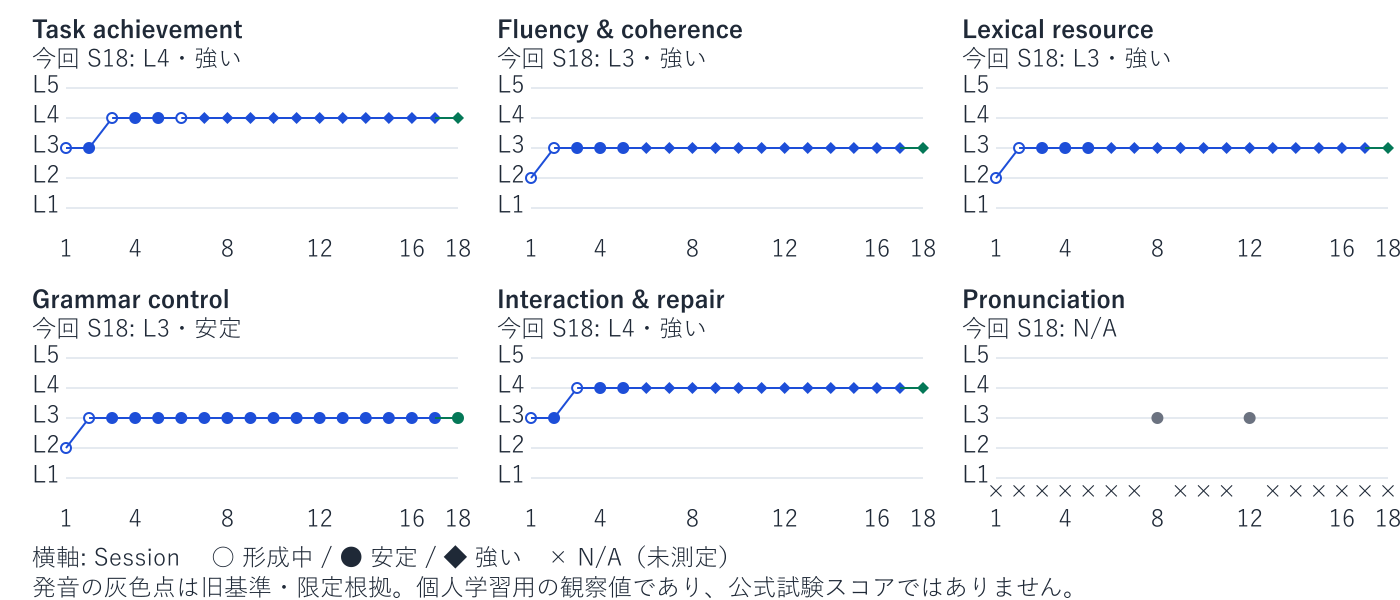
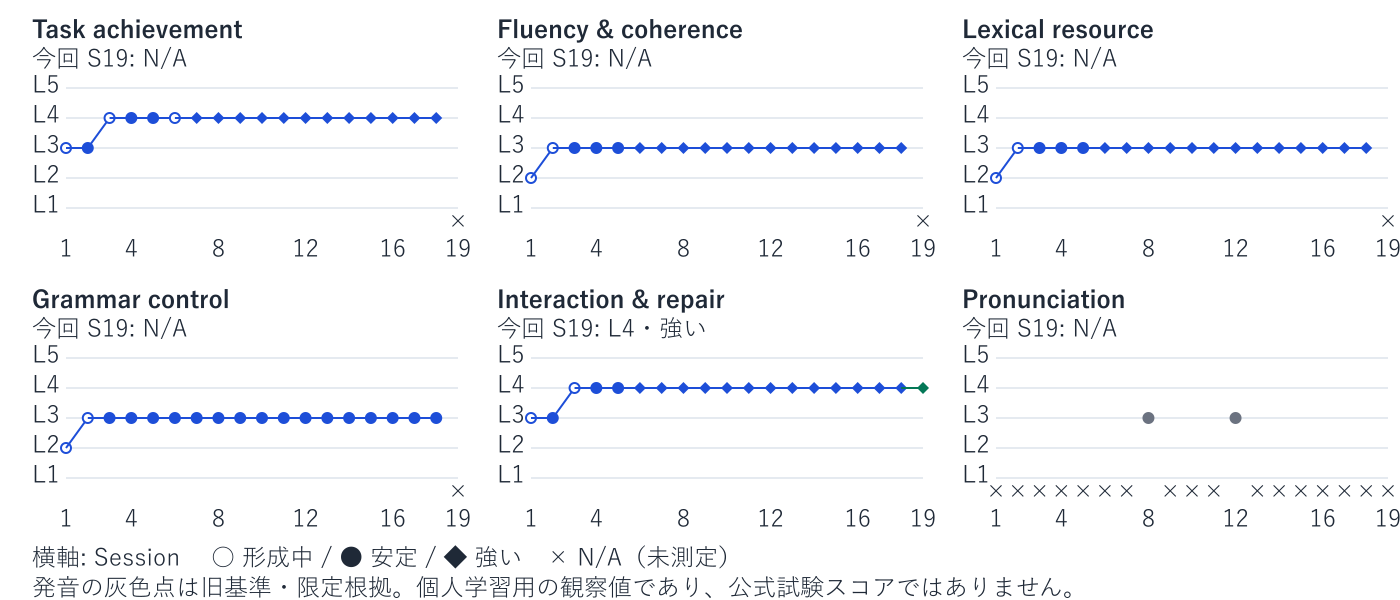
Record session 19 and adopt evidence-first report assessment

diff --git a/learning-records/journal.md b/learning-records/journal.md
@@ -8,6 +8,7 @@
 
 - [今日の5分復習](#journal-five-minute-review)
 - [英会話セッション](#journal-sessions)
+  - [Session 19 — 点数より根拠、レポート全体の評価方法を見直す](#session-2026-10-05-02)
   - [Session 18 — 宇宙記事からパスキーへ、発音評価の根拠を問い直す](#session-2026-10-05-01)
   - [Session 17 — 週末の過ごし方とAI天気予報の産業への影響](#session-2026-09-27-01)
   - [Session 16 — GCP Pub/SubとAWSの比較・英語力評価の見直し](#session-2026-09-26-01)
@@ -34,6 +35,24 @@
 <a id="journal-five-minute-review"></a>
 
 # 今日の5分復習
+
+<details>
+<summary>レポートがどう変わるか、具体的に尋ねる</summary>
+
+**How will the report change?**
+
+実際の質問意図から整理した学習用表現。ASR断片を確定した文法誤りとして採点したものではない。
+
+</details>
+
+<details>
+<summary>発音だけでなく、評価全体へ変更の範囲を広げる</summary>
+
+**I mean the whole evaluation, not only pronunciation.**
+
+今回自分で伝えた “Not only pronunciation” を、一文で使いやすくした練習案。
+
+</details>
 
 <details>
 <summary>新しい分野に入る前に、自分の理解度を確認してもらう</summary>
@@ -112,6 +131,90 @@
 <a id="journal-sessions"></a>
 
 # 英会話セッション / Sessions
+
+<!-- session-meta: {"session_number":19,"session_id":"2026-10-05-02","date":"2026-10-05","title":"点数より根拠、レポート全体の評価方法を見直す","tags":["Learning Strategy","Assessment","Report","Pronunciation"],"remember":"会話の観察・ローカル実測・過去値を分け、根拠が足りない技能には無理に点数を付けない。","prompt":"What should an evaluation report show besides a score?"} -->
+<a id="session-2026-10-05-02"></a>
+
+## 2026年10月5日（月）— 点数より根拠、レポート全体の評価方法を見直す
+
+> **Session 19 / Recorded session window:** 22:05〜22:15 JST。終了済みの追加音声会話から37の原発話区間（Yuki 13区間）を原順で保存。音声本体、入力テキスト、backendの説明は含まないためraw coverageはpartial。
+
+### 今日の要点 / Today at a Glance
+
+**今回確認できた成功:** Yukiは “Not only pronunciation” と自分から範囲を明示し、発音だけでなくレポート全体の評価方法を見直す方向へ対話を戻した。その後も、レポートが具体的にどう変わるかを質問した。
+
+**評価の制約:** 今回は短い方法相談が中心で、理由と例をつなげた長い独立説明や、比較可能な音声測定はない。会話運営のL4・強いは今回の行動から確認できるが、他の4会話観点の新規L判定は保留する。N/Aは能力低下や0点を意味しない。
+
+**次の重点:** 期待する変更を一文で示すこと、身近なITの話でまず結論と理由を述べることに絞る。
+
+### 話題別メモ / Topic Notes
+
+#### 発音の新規総合判定は一時停止する
+
+前のSession 18では録音をローカルで処理できたが、母音・子音、強勢、リズム、つながり、イントネーションを信頼して総合聴取する手段は確認できなかった。今回、Yukiは「解決策がなければN/Aが続く」と指摘し、新規総合Pronunciationレベルの判定を一時停止する方針に合意した。過去の数値や録音は削除せず、信頼できるレビュー手段を既存録音で確認して再開を相談する。方法が整わないまま追加録音を求めない。
+
+#### レポート全体を「実際に確認できる根拠」へ合わせる
+
+会話・文字起こしからの観察、ローカル音声の実測、過去の評価を別々に扱う。各技能は、実際の発話または具体的な行動、何を示すか、根拠の限界を確認してから、十分な場合だけレベルと段階を決める。ASR一致率は発音正確率ではなく、話速も英語力全体のスコアではない。専門外の記事と身近な会話を単純比較せず、Chappyの誤解や操作上の混乱をYukiの減点理由にしない。
+
+### Yukiの意見・結論 / Yuki’s Takeaways
+
+1. 解決していない分析の限界を、追加録音だけで解決したことにしない。
+2. 発音だけでなく、レポート全体をChappyが実際に確認できる範囲へ合わせる。
+3. 点数だけでなく、その根拠、変化または保留の理由、次に練習することを具体的に見たい。
+
+### 役立つ英語 / Useful English
+
+**Yukiの実発話（ASR・turn 29の一部）:** “Not only pronunciation”
+
+この文脈では変更範囲を伝える短い補足として機能した。訂正が必要な誤りとは扱わない。独立した一文で範囲を示す練習案は “I mean the whole evaluation, not only pronunciation.”。実際にこの一文を発話したと記録しない。
+
+**Yukiの質問意図から整理した学習用表現:** “How will the report change?” 元のASRは “the report, how change”。直接音声を確認していないため、確定した語順誤りや再発回数へ含めない。
+
+### 発音・スピーキング / Speaking & Pronunciation
+
+**今回のPronunciation: N/A（新規総合判定を一時停止）。過去の最終数値記録: Session 12のL3・安定（旧基準・限定根拠）。** 今回は新規録音、WPM、無音率、個別音や韻律の測定を行っていない。Session 18の約114語/分などを今回の測定として掲載しない。
+
+### 英語力の成長メモ / English Growth & Evaluation
+
+#### Task achievement — 今回N/A / 前回L4・強い / 比較不能
+
+**根拠:** turn 1・4・13・29・32で方法変更や範囲を求め、相談の目的を達成した。**判定理由・制約:** 要望は伝わったが、L4の基準全体に当たる結論・理由・例・まとめの独立説明は観察していない。前回値をコピーせず新規判定を保留する。**確度:** 保留判断は高。
+
+#### Fluency & coherence — 今回N/A / 前回L3・強い / 比較不能
+
+**根拠:** turn 4・6・22・25・29・32で方法とレポートの話題を保った。**判定理由・制約:** 短い確認中心で継続発話の材料が少なく、直接測った話速・間もない。ASRイベント時刻を発話時間へ読み替えない。**確度:** 保留判断は高。
+
+#### Lexical resource — 今回N/A / 前回L3・強い / 比較不能
+
+**根拠:** turn 1・13・25・29で evaluation method、report、overall pronunciationを用いた。**判定理由・制約:** 繰り返し扱った少数の語から幅広い語彙運用や前回からの変化は判定しない。Chappyが供給した専門語を独立習得として数えない。**確度:** 保留判断は高。
+
+#### Grammar control — 今回N/A / 前回L3・安定 / 比較不能
+
+**根拠:** turn 1・19・22・29・32で要望は伝わった。**判定理由・制約:** 文型の観察範囲が狭く、ASR断片の冠詞・語順・語尾を実音声で確認できない。確定誤りや新しい文法レベルを作らない。**確度:** 保留判断は高。
+
+#### Interaction & repair — 今回L4・強い / 前回L4・強い / 維持
+
+**根拠:** turn 29の “Not only pronunciation” で変更範囲を自分から修正し、turn 22・25・32で具体的な説明を求めた。turn 19・36では記録の時期と会話終了も指定した。**比較理由・制約:** 前回と同様に独立した確認・修復が複数回見られたためL4・強いを確認。ただし短い方法相談だけでL5や精密な改善率は判断しない。Chappyの説明範囲のずれは本人の弱点ではない。**確度:** 高。
+
+#### Pronunciation — 今回N/A / 前回N/A / 比較不能
+
+**根拠:** turn 6・13・16で新規総合判定の停止方針を相談・承認した。**判定理由・制約:** 今回の実音声・韻律の直接確認はなく、信頼できるレビュー手段も未確認。方法上の制約であり発音の能力低下ではない。**確度:** 保留判断は高。
+
+### 学習バンク更新 / Study Banks Update
+
+- Expression Bank: 新規1件 “How will the report change?”。今回の質問意図を練習用に整理した形。
+- Vocabulary Bank: 追加なし。少数の評価用語を使ったことだけで語彙習得を認定しない。
+- Pronunciation & Speaking Bank: 追加なし。今回の個別音評価はない。
+
+### 次回 / Next Steps
+
+1. 欲しい変更を “I mean the whole evaluation, not only pronunciation.” のように一文で示す。
+2. 身近なITについて、まず主張と理由を一つずつ述べ、余裕があれば具体例を足す。
+
+### Sources / Evidence
+
+終了済み音声会話の37の原発話区間を一次根拠とする。raw archiveは学習本文へ自動掲載せず、音声本体・個人情報は公開しない。外部の記事や新しい製品仕様は今回の討論対象ではない。
 
 <!-- session-meta: {"session_number":18,"session_id":"2026-10-05-01","date":"2026-10-05","title":"宇宙記事からパスキーへ、発音評価の根拠を問い直す","tags":["Learning Strategy","Space","IT / Security","Passkeys","Pronunciation"],"remember":"未知の分野では先に理解度を確認し、専門語を一度に増やさない。発音評価では音声の自動認識と総合聴取の限界を分けて考える。","prompt":"How can we choose a topic at the right level, and what evidence would make a pronunciation evaluation trustworthy?"} -->
 <a id="session-2026-10-05-01"></a>
@@ -2048,7 +2151,9 @@ Why: 改善点には work on / focus on が自然。
 ## できるようになったこと
 
 **最新の直接発音評価： [Session 12（2026年9月6日）](#session-2026-09-06-01)**
-**最新の会話評価： [Session 18（2026年10月5日）](#session-2026-10-05-01)**
+**最新の会話評価： [Session 19（2026年10月5日）](#session-2026-10-05-02)**
+
+- 今回の成功は、変更範囲を “Not only pronunciation” と自分で明示し、具体的なレポートの変更を求めたこと。短い確認会話なので、会話運営以外の新規レベルは保留した。未測定は能力低下を意味しない。
 
 - 未知の分野に入る前の予備知識確認を求め、記事の難度が合わないときは身近なITへ話題を切り替えられる。発音評価についても測定と判定の違いを問い直した。
 - 旅行など身近な話題から、AI・エネルギー・文化のような抽象的なテーマまで、意見と理由をつないで話せる。
@@ -2080,33 +2185,33 @@ Why: 改善点には work on / focus on が自然。
 
 | 評価観点 | 現在 | 会話で確認できたこと |
 |---|---:|---|
-| **Task achievement** | **L4・強い / Session 18** | 記事の難度を見直してITへ切り替え、発音評価の信頼性を問い直した。 |
-| **Fluency & coherence** | **L3・強い / Session 18** | 言い直しながらも話題選びと評価方法の意図を伝えた。ASRから話速・間の推移は測らない。 |
-| **Lexical resource** | **L3・強い / Session 18** | familiar、security、evaluationなどを自分で使い、未知の専門語は意味を確認した。 |
-| **Grammar control** | **L3・安定 / Session 18** | 意図は通じるが長い質問には組立ての揺れがある。ASRの細部は要確認。 |
-| **Interaction & repair** | **L4・強い / Session 18** | 言語、話題、説明の深さ、発音採点の方法を自発的に修正・確認した。 |
-| **Pronunciation** | **N/A / 今回 Session 18** | 音読2本はローカル処理済みだが総合聴取は不足。過去の最終記録はSession 12 L3・安定（旧基準・限定根拠）。 |
+| **Task achievement** | **N/A / Session 19** | 要望は達成したが、理由・例までの独立説明は未観察。過去の最終判定はSession 18 L4・強い。 |
+| **Fluency & coherence** | **N/A / Session 19** | 短い確認中心で、継続発話と直接の時間測定は不足。過去の最終判定はSession 18 L3・強い。 |
+| **Lexical resource** | **N/A / Session 19** | 評価用語を使ったが語彙範囲の材料は少ない。過去の最終判定はSession 18 L3・強い。 |
+| **Grammar control** | **N/A / Session 19** | ASR断片だけで語順・冠詞の誤りを確定しない。過去の最終判定はSession 18 L3・安定。 |
+| **Interaction & repair** | **L4・強い / Session 19** | “Not only pronunciation” と変更範囲を明示し、具体的な説明と終了を自分で管理した。 |
+| **Pronunciation** | **N/A / 今回 Session 19** | 新規総合判定を一時停止。過去の最終数値はSession 12 L3・安定（旧基準・限定根拠）。 |
 
 ## 発音の測定状況
 
-過去の最終Pronunciation記録はSession 12の **L3・安定** です。ただし旧手順の限定的な根拠による評価であり、現在求める個別音・強勢・リズム等の総合聴取を満たした新評価とは区別します。過去値自体は再採点していません。Session 18では音読を2本ローカル処理し、自動診断も短く試しましたが、個別音と韻律の信頼できる総合聴取が不足するため、**今回の新規総合レベルはN/A**です。録音本体は公開しません。
+過去の最終Pronunciation記録はSession 12の **L3・安定** です。ただし旧手順の限定的な根拠による評価であり、現在求める総合聴取を満たした新評価とは区別します。過去値自体は再採点していません。Session 18の音読2本のローカル実測も、その回の補助情報として残します。Session 19では新しい音声測定はせず、**新規総合レベルの判定を一時停止**しました。信頼できる音・韻律レビューを既存録音で確認し、Yukiと再開を相談するまで追加録音を求めません。録音本体は公開しません。
 
 ## 成長グラフ
 
-[![Session 1からSession 18までの英語力成長グラフ](media/progress/english-growth-evidence-dashboard.png)](media/progress/english-growth-evidence-dashboard.png)
+[![Session 1からSession 19までの英語力成長グラフ](media/progress/english-growth-evidence-dashboard.png)](media/progress/english-growth-evidence-dashboard.png)
 
-Session 1から18までの6指標を、横軸Session・縦軸Lの時系列で表示しています。同じL内の **形成中・安定・強い** はマーカー形状で区別します。N/Aは欠測として残し、線で補間しません。Session 8・12の発音点は旧基準・限定根拠として灰色で表示します。点の間隔やマーカー形状を公式試験の精密な尺度と解釈しないでください。
+Session 1から19までの6指標を、横軸Session・縦軸Lの時系列で表示しています。同じL内の **形成中・安定・強い** はマーカー形状で区別します。N/Aは欠測として残し、線で補間しません。Session 19の判定保留は短い相談の観察範囲を示し、能力低下ではありません。Session 8・12の発音点は旧基準・限定根拠として灰色で表示します。点の間隔やマーカー形状を公式試験の精密な尺度と解釈しないでください。
 
 ## 次に伸ばすこと
 
-1. 次回の題材は身近なITから選び、最初に既知の点と曖昧な点を一つずつ示す。
-2. `I'm not familiar with this field yet.` のように、自分に合う深さを一文で伝える。
-3. 発音の総合採点を再開するなら、録音前に直接音声確認の方法と判定可能な範囲を決める。
+1. 期待する変更や説明の範囲を、一文で示す。
+2. 身近なITについて、まず結論と理由を一つずつ述べる。発音の総合判定は手段を検証して再開を合意するまで停止する。
 
 ## 評価セッションを開く
 
 各リンク先には、その回の評価根拠と次の練習があります。
 
+- [Session 19 — 点数より根拠、レポート全体の評価方法を見直す](#session-2026-10-05-02) — InteractionはL4・強い。短い相談では他の会話技能の根拠が足りず新規判定を保留。発音は総合判定を一時停止。
 - [Session 18 — 宇宙記事からパスキーへ、発音評価の根拠を問い直す](#session-2026-10-05-01) — 会話5観点はL4 / L3 / L3 / L3 / L4。発音はN/A。難度の変更と採点方法の確認を自分で進めた。
 - [Session 17 — 週末の過ごし方とAI天気予報の産業への影響](#session-2026-09-27-01) — 会話5観点はL4 / L3 / L3 / L3 / L4。発音はN/A。記事の根拠を確認し、過大な精度説明を修正させた。
 - [Session 16 — GCP Pub/SubとAWSの比較・英語力評価の見直し](#session-2026-09-26-01) — 会話5観点はL4 / L3 / L3 / L3 / L4。今回の総合PronunciationはN/A。新手順で観点別の根拠・比較条件を示し、語探しの直近改善率は未確認とした。
@@ -2154,6 +2259,12 @@ L1からL5は、**Strong support → Supported → Mostly independent → Indepe
 <a id="journal-expression-bank"></a>
 
 # 表現バンク / Expression Bank
+
+## 2026年10月5日 — Session 19
+
+| Expression | Meaning / Usage / Example | Source |
+|---|---|---|
+| **How will the report change?** | レポートの変更内容を具体的に尋ねる。今回の質問意図を練習用に整理した形で、Yukiの実発話そのままではない。**Chunk:** How will ... change? | [Session 19](#session-2026-10-05-02) |
 
 ## 2026年10月5日
 

diff --git a/learning-records/resources/whole-session-scoring.md b/learning-records/resources/whole-session-scoring.md
@@ -42,4 +42,20 @@ The separate fixed spontaneous-speaking probe can provide finer evidence for tas
 
 ## Reporting rule
 
+### Evidence-first report assessment (2026-10-05)
+
+Start by identifying the methods actually available in that session and what each can establish. Keep conversation/transcript observations, locally measured audio data, and historical ratings separate. Processing a recording does not establish that Chappy listened to it or judged its individual sounds and prosody.
+
+For the five assessable conversation dimensions, connect an actual utterance or concrete behavior to what it demonstrates, its evidence limits, and a level/stage only when supported. Keep current/previous ratings, comparison reasons, and confidence traceable. Compare topic familiarity, task, support, preparation, and capture conditions; unfamiliar specialist reading and familiar conversation are not interchangeable. Assistant-caused misunderstandings or UI confusion are not learner deficits, and transcript text alone cannot establish timing.
+
+Lead the report with one observed success, the limitation or reason for a stable/withheld rating, and one or two next practice targets. A clearer explanation, self-repair, or independently reused expression can be meaningful without a level increase. If no success or change is established, say it is unconfirmed rather than inventing one. Keep ASR matching and pace as method-labeled measurements, not pronunciation percentages, L ratings, or examination scores. Apply this policy to new reports without silently rescoring history.
+
+### Temporary pause on new holistic Pronunciation ratings (2026-10-05)
+
+At Yuki's request, suspend new holistic Pronunciation L1–L5 ratings and within-level stages until a reliable direct audio review method is verified and resumption is agreed with Yuki. Keep the Pronunciation dimension in the data as N/A, with the reason that holistic assessment is paused because of the review-method limitation. Continue assessing the other five dimensions independently when their evidence is sufficient.
+
+N/A is neither zero nor a low rating. Do not use an unmeasured pronunciation value in an overall score or describe the other five dimensions as a complete assessment including pronunciation. Preserve past ratings and identify their historical evidence limits separately; do not rescore or remove history under this policy.
+
+Local pace, pauses, recording quality, and ASR results may still be reported as limited measurements, not sound-accuracy ratings. Before requesting another recording for a holistic rating, test the review method on existing audio. New software or an automatic score alone does not establish valid sound/prosody review. Any external audio transfer still requires the explicit approval specified in AGENTS.md.
+
 For each dimension, show the current rating or N/A, the previous rating, the comparison decision, one evidence sentence, and a limitation when relevant. Explain specifically why a rating remained unchanged. Do not imply that six unchanged numbers prove no learning, or that a richer conversation alone proves a level increase. If the evidence is mixed, say so plainly and give the next observation that would resolve it.
